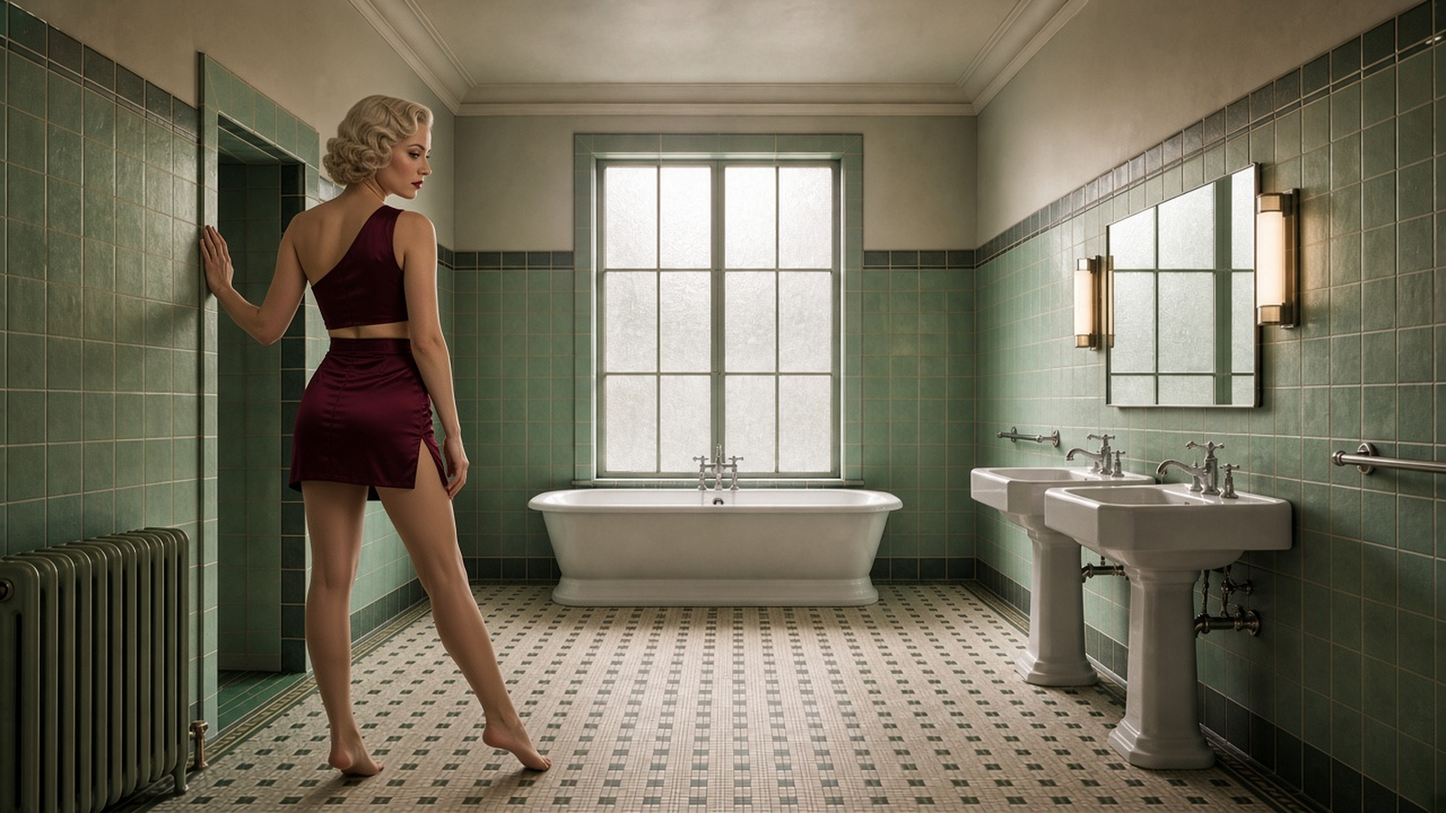
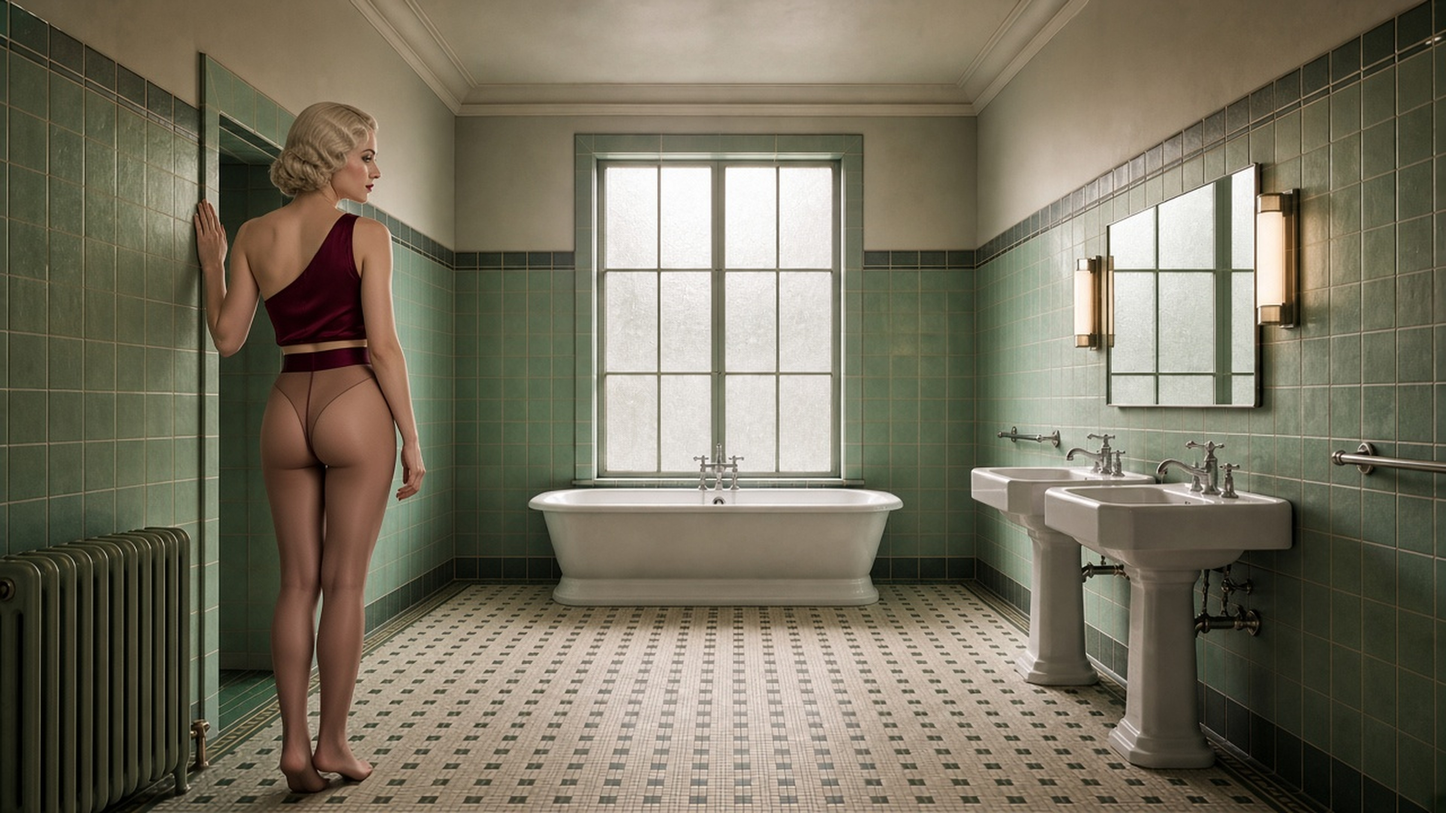
Replace the winter-overlook hour 10 figure.

diff --git a/images/winter-overlook/README.md b/images/winter-overlook/README.md
@@ -96,7 +96,7 @@ instead of following `20`.
 ### 剪裁
 
 - 預設：**兩件式短上衣＋短裾**。胸前或背後鑽空可留，當錯開項。
-- `10` 原規劃是浴室例外（無上衣、無下襬），已由定版取代：酒紅緞面兩件式，下襬在大腿最上端，詳見小時地圖。
+- `10` 已定版取代原規劃：酒紅緞面單肩上衣停在肩胛下緣、高腰膚色膜從腰開始，酒紅腰頭在腰，詳見小時地圖。
 - 布料色跟場景錯開，不要 24 小時同一套骨白裙。可用骨白、黑、暗金、乾玫瑰。金和紅優先留給襪膜和房間，不要衣服、房間、襪三種同時燒成同一個顏色。
 - 相鄰有人的小時至少錯開：衣服色、剪裁、髮、妝、姿勢、視線、襪色、腳上有沒有鞋。
 - 背面小時頭髮束起或撥到遠側肩，否則臀下弧會被頭髮蓋住。
@@ -231,7 +231,7 @@ Still [ceiling so it does not overshoot].
 | `7` | 冬晨外觀。留空 | — | — | — | — | `7.jpg` |
 | `8` | 大廳靠窗。慵懶斜倚扶手椅、雙腿自大腿處自然交疊延伸向右下前景；看窗外的雪 | 墨黑細肩帶深 V 胸下三角鑽空短上衣＋高腰極短窄裙退到大腿根部 | 窗外雪光的冷藍微染全透，皮膚與膝蓋透出 | **穿鞋**。暗皮尖頭細跟晚鞋。看見鞋口襪緣 | 大門玻璃裡是雪和空廳，沒有她 | **正式** `8.jpg`＝`_trials/8-dirA3-cool-3840.jpg`（由空椅舞台 `8-empty-chair.jpg` 重出 `8-dirA-3.jpg` 後鎖定無倒影玻璃與冷藍透膜放大）。獨立 3840×2160。兩腿同一層膜 |
 | `9` | 日光照進的客房走廊。背靠左側門，看盡頭的窗，不看鏡頭。一膝抬起、腳在髖旁；另一腳沿地毯更遠 | 乾玫瑰無肩帶胸片，下緣在肩胛下緣。沒有裙子 | 膚色高腰膜，腰頭偏實心，帶日光暖調 | **脫鞋**，暗皮矮粗跟空在門邊。跟矮於細高跟 | 門板上可留影子 | **正式** `9.jpg`＝`_trials/9-sunfloor-13-3840.jpg`。來源 `1280×720`。空景 `_trials/9-before-character.jpg` |
-| `10` | 綠磚浴室。背四分之三站在左門框，手貼門框在肩高，側臉看右牆鏡子。一腿直立、一腿斜伸向房間中央，腿在門框前景，浴缸保持空 | 酒紅緞面單肩短上衣＋窄裙，下襬在大腿最上端、髖仍蓋住，腰有一窄條皮膚 | 膚色全透，對上同一張的背與手臂；皮膚和膝透出 | **脫鞋，房裡沒有鞋**。近腳平貼磁磚，遠腳行進中腳跟抬起（已知殘缺） | 洗手台上方的鏡子裡是窗、浴缸、洗手台，沒有她 | **正式** `10.jpg`＝`_trials/10-redesign-v2j-insitu-3840.jpg`。採用整張重繪圖放大，避免去背合成的拼貼邊；場景構圖對位但非原空景像素。空景備份 `_trials/10-before-character.jpg`（雜湊與原正式檔一致）。鉑金 1930s 指波頭、深紅唇 |
+| `10` | 綠磚浴室。背四分之三站在左門框，手貼門框在肩高，側臉看右牆鏡子。雙腿平行、腳在門框前景，浴缸保持空 | 沒有裙子。酒紅緞面單肩上衣停在肩胛下緣，酒紅腰頭在腰，下背裸膚 | 高腰膚色膜從腰接到趾，臀與大腿全在膜裡；膜色偏深於背臂，臀上有一道 T 縫（已接受的已知殘缺） | **脫鞋，房裡沒有鞋**。近腳平貼磁磚，遠腳微踮（已知殘缺） | 洗手台上方的鏡子裡是窗、浴缸、洗手台，沒有她 | **正式** `10.jpg`＝`_trials/10-v3e-insitu-3840.jpg`（整張重繪放大，避免拼貼邊；場景對位但非原空景像素）。上一版正式檔備份 `_trials/10-before-character-v2j.jpg`，空景備份 `_trials/10-before-character.jpg`。鉑金 1930s 指波頭、深紅唇 |
 | `11` | 山景休息室。留空 | — | — | — | — | `11.jpg` |
 | `12` | 正午金廳全景。留空 | — | — | — | 廳是為沒來的宴會佈置的 | `12.jpg` |
 | `13` | 同金廳改近。背四分之三沿舞池邊走，看吧台。髮束起 | 露出臀部下弧；布仍蓋住臀部上半 | 壁燈金透，膜一路貼到臀下弧，皮膚仍透出 | **穿鞋**。暗緞矮彎跟 | 拋光地板映出燈，沒有她的腿 | symlink→`12`，將拆 |
